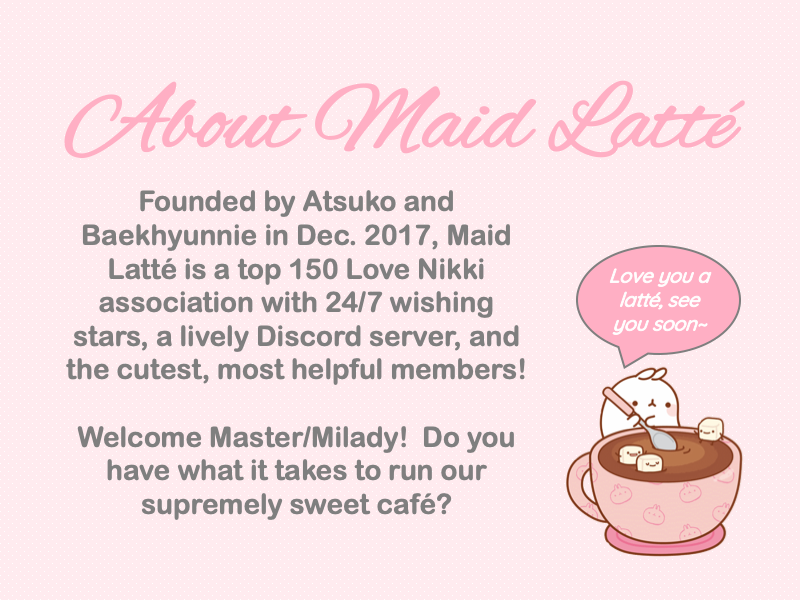
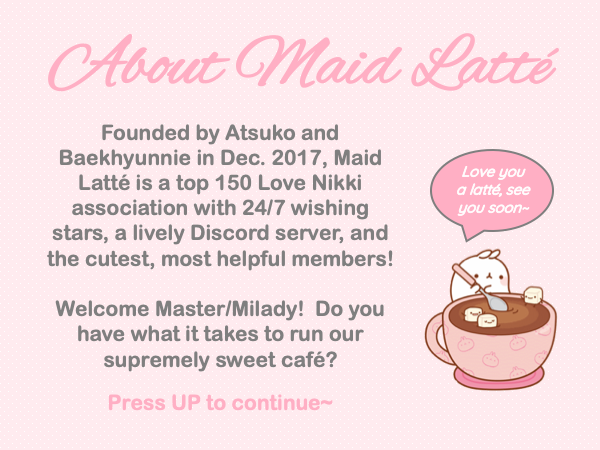
Added instructions, about, game screens, and transitions.

diff --git a/scripts/game.js b/scripts/game.js
@@ -1,87 +1,110 @@
-// http://dev.bennage.com/blog/2013/01/11/game-dev-02/
-
-/* var currentScreen = 0;
-var molangHug = getImage("images/molanghug");
-
-var drawButton = function()
-{
-  fill(81, 166, 31);
-  rect(340, 10, 50, 25);
-  fill(255, 255, 255);
-  textSize(16);
-  text("NEXT", 344, 29);
-}
-
-var drawScreen1 = function()  start screen
-{
-  currentScreen = 1;
-  background(200, 175, 175);
-  image(molangHug, 50, 200);
-}
-
-
-create button
-var btn1 = new Button ({
-    x: 350,
-    y: 350,
-    width: 80,
-    height: 50,
-    color: color(222, 173, 222),
-    label: "Start"
-});
+/* Name: Anita Chen, Date: 12/25/2019
+game.js: This javascript file contains the game logic.
 */
 
-// Initialize myCanvas
+// Initialize canvas and context
 var canvas = document.getElementById("myCanvas");
 var context = canvas.getContext("2d");
-/*
-var home = new Image();
-home.src = '../mlarcade/images/home.png';
-var start = new Image();
-start.src = '../mlarcade/images/start.png';
-var instructions = new Image();
-instructions.src = '../mlarcade/images/instructions.png';
-var about = new Image();
-about.src = '../mlarcade/images/about.png';
-var credits = new Image();
-credits.src = '../mlarcade/images/credits.png';
-var settings = new Image();
-settings.src = '../mlarcade/images/settings.png';
+// Initialize page counter
+var page = 0;
+// Clear and update game screen 50 times per second
+// var interval = setInterval(updateGameArea, 20);
 
-function isLoaded()
+// Draws the Home Page
+function drawHomePage()
 {
-  if (home.isLoaded)
-  {
-    return true;
-  }
-}
-*/
-
-function drawButton(buttonName = "", posx = 350, posy = 350, width = 100, height = 50)
-{
-  context.beginPath();
-  context.fillStyle = "#FFAFC4";
-  context.rect(posx, posx, width, height);
-  context.fill();
-  context.closePath();
-
-  context.beginPath();
-  context.fillStyle = "#FFFFFF";
-  context.font = '48px serif';
-  context.fillText(buttonName, posx + 10, posy + 10);
-  context.closePath();
+  var home = new Image();
+  home.onload = function() {
+        context.drawImage(home, 0, 0);
+  };
+  home.src = '../mlcatch/images/startscreen.png';
+  page = 0; // home page
 }
 
+// Draws the About Page
 function drawAboutPage()
 {
   var aboutPage = new Image();
   aboutPage.onload = function() {
         context.drawImage(aboutPage, 0, 0);
   };
-  aboutPage.src = '../mlarcade/images/aboutpage.png';
-  alert("draw about page");
+  aboutPage.src = '../mlcatch/images/aboutpage.png';
+  page = 1; // about page
+  // alert("draw about page");
 }
 
+// Draws the Instructions Page
+function drawInstructionsPage()
+{
+  var instructionsPage = new Image();
+  instructionsPage.onload = function() {
+        context.drawImage(instructionsPage, 0, 0);
+  };
+  instructionsPage.src = '../mlcatch/images/instructionspage.png';
+  page = 2; // instructions page
+  // alert("draw about page");
+}
+
+// Draws the Credits Page
+function drawCreditsPage()
+{
+  var creditsPage = new Image();
+  creditsPage.onload = function() {
+        context.drawImage(creditsPage, 0, 0);
+  };
+  creditsPage.src = '../mlcatch/images/creditspage.png';
+  page = 3; // credits page
+  // alert("draw about page");
+}
+
+// Draws the game background
+function drawGamePage()
+{
+  var gamePage = new Image();
+  gamePage.onload = function() {
+        context.drawImage(gamePage, 0, 0);
+  };
+  gamePage.src = '../mlcatch/images/gamepage.png';
+
+  // drawCup();
+
+  page = 4; // game background
+  // alert("draw about page");
+}
+
+// Draws the cup
+function drawCup(posx = 10)
+{
+  var cup = new Image();
+  cup.onload = function() {
+        context.drawImage(cup, posx, 250, 150, 150);
+  };
+  cup.src = '../mlcatch/images/cup.png';
+}
+
+/*
+function clear()
+{
+  context.clearRect(0, 0, 600, 450);
+}
+
+function update(newpos = 10)
+{
+  drawGamePage();
+  drawCup(newpos);
+}
+
+function updateGameArea()
+{
+  if (page = 4)
+  {
+    clear();
+    update();
+  }
+}
+*/
+
+// Starts the game
 function startGame()
 {
   // create game space
@@ -90,69 +113,78 @@ function startGame()
   context.fillRect(0, 0, 800, 600);
   context.closePath();
 
-  // home background
-  var home = new Image();
-  home.onload = function() {
-        context.drawImage(home, 0, 0);
-  };
-  home.src = '../mlarcade/images/home.png';
-  home.onclick = function(){
-    drawAboutPage();
-  };
+  // Draw the home page
+  drawHomePage();
 
+  window.addEventListener('keydown', function (e)
+  {
+    if (e.key === "ArrowUp")
+    {
+      // alert("up");
+      e.preventDefault();
 
-  // start button, 300*100
-var start = new Image();
-  start.onload = function() {
-        context.drawImage(start, 250, 300, 300, 100);
-  };
-  start.src = '../mlarcade/images/start.png';
+      if (page == 0) // Home: Press UP to start
+      {
+        drawInstructionsPage();
+      }
+      else if (page == 1) // About: Press UP to go home
+      {
+        drawHomePage();
+      }
+      else if (page == 2) // Instructions: Press UP to go to game background
+      {
+        drawGamePage();
+      }
+      else if (page == 4) // Game screen: Press UP to go home
+      {
+        drawHomePage();
+      }
+    }
+    else if (e.key === "ArrowDown")
+    {
+      // alert("down");
+      e.preventDefault();
+      if (page == 0) // Home: Press DOWN to go to about
+      {
+        drawAboutPage();
+      }
+    }
+    /*
+    else if (e.key === "ArrowLeft")
+    {
+      // alert("down");
+      e.preventDefault();
+      if (page == 4) // Home: Press DOWN to go to about
+      {
+        updateGameArea();
+      }
+    }
+    else if (e.key === "ArrowRight")
+    {
+      // alert("down");
+      e.preventDefault();
+      if (page == 4) // Home: Press DOWN to go to about
+      {
+        updateGameArea();
+      }
 
-  // instructions button, 300 * 50
-var instructions = new Image();
-  instructions.onload = function() {
-        context.drawImage(instructions, 250, 425, 300, 50);
-  };
-  instructions.src = '../mlarcade/images/instructions.png';
-
-  // about button, 130 * 50
-  var about = new Image();
-  about.onload = function() {
-        context.drawImage(about, 250, 525, 130, 50);
-  };
-  about.src = '../mlarcade/images/about.png';
-  about.onclick = function(){
-    drawAboutPage();
-  };
-
-  // credits button, 130 * 50
-var credits = new Image();
-  credits.onload = function() {
-        context.drawImage(credits, 420, 525, 130, 50);
-  };
-  credits.src = '../mlarcade/images/credits.png';
-
-  // settings button, 150 * 50
-  var settings = new Image();
-  settings.onload = function() {
-        context.drawImage(settings, 600, 25, 150, 50);
-  };
-  settings.src = '../mlarcade/images/settings.png';
-
-
-  // drawButton("Start");
-  //drawButton("Credits", 30, 120, 100, 50);
-
-  // fake button
-  /*
-  var img = new Image();   // Create new img element
-  img.onload = function() {
-        context.drawImage(img, 350, 420, 200, 150);
-  };
-  img.src = '../mlarcade/images/tontonchristmas2017 copy.png';
-  */
+    }
+    */
+  })
 }
 
+// Starts the game
 startGame();
 
-// please work
+/*
+window.addEventListener('keypress', function (e) {
+  if (e.key === " ")
+  {
+    alert("space");
+  }
+  else if (e.key === "a")
+  {
+    alert("a");
+  }
+})
+*/

diff --git a/mlCatch.html b/mlCatch.html
@@ -1,3 +1,6 @@
+<!-- Name: Anita Chen, Date: 12/25/2019
+mlCatch.html: This html file contains the html for the game.-->
+
 <!-- Makes sure your document behaves -->
 <!DOCTYPE html>
 <!-- wraps everything on the page, root element -->
@@ -24,12 +27,12 @@
   <!-- contains all the stuff you do want on the page -->
   <body>
     <!-- title of page -->
-    <div style="float:left"><img src = "images/mllogo.png" style = "width:60px; height:60px;"></div>
-    <div style="float:left"><h1>Maid Latté Arcade</h1></div>
+    <div style="float:left"><img src = "images/mllogo.png" style = "width:60px; height:60px; padding-top: 20px; padding-right: 50px"></div>
+    <div style="float:left"><h1>Maid Latté Catch</h1></div>
     <div style="clear:both"/>
 
 
-    <canvas id = "myCanvas" width = 800 height = 600>
+    <canvas id = "myCanvas" width = 600 height = 450>
     </canvas>
     <script src = "scripts/game.js">
     </script>
@@ -45,7 +48,7 @@
     <!-- add javascript, always right before </body>  -->
 
     <!-- paragraph, anchor with href to link-->
-    <h4>©2019 by Maid Latté! Github</h4>
+    <h4>©2019 by Maid Latté! <a href="https://github.com/achen1105/mlcatch">Github</a></h4>
 
   </body>
 </html>

diff --git a/styles/styles.css b/styles/styles.css
@@ -1,3 +1,7 @@
+/* Name: Anita Chen, Date: 12/25/2019
+styles.css: This css file contains the styling for the website.
+*/
+
 /* // doesn't work; p is the selector, color is property, red property value
 color: red is declaration, everything is called rule set
 p, li to select both selectors
@@ -41,10 +45,10 @@ h4 {
 }
 
 body {
-  width: 800px; /* body always 600px */
+  width: 600px; /* body always 600px */
   margin: 0 auto; /* top/bottom is 0, left and right evenly distributed */
   background-color: #fffaf4;
-  padding: 0 20px 0px 20px; /* top right bottom left */
+  padding: 0 100px 0px 100px; /* top right bottom left */
   border: 5px solid #ffebef; /* took a while but here: https://stackoverflow.com/questions/7094608/why-my-css-did-not-set-the-color-of-div-border-successfully */
 }
 
